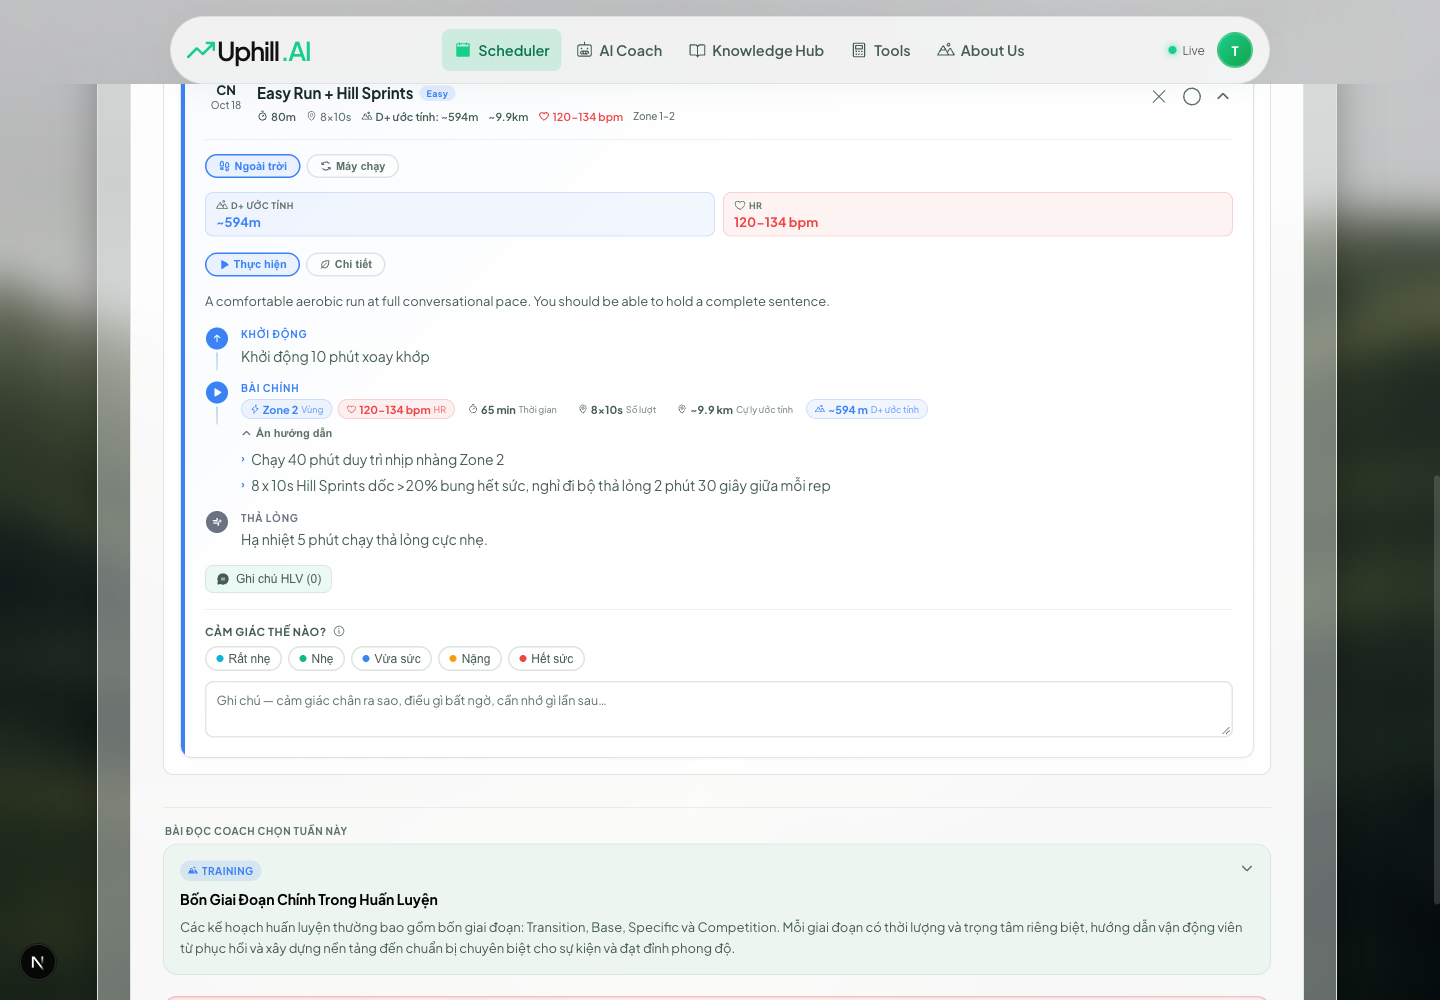
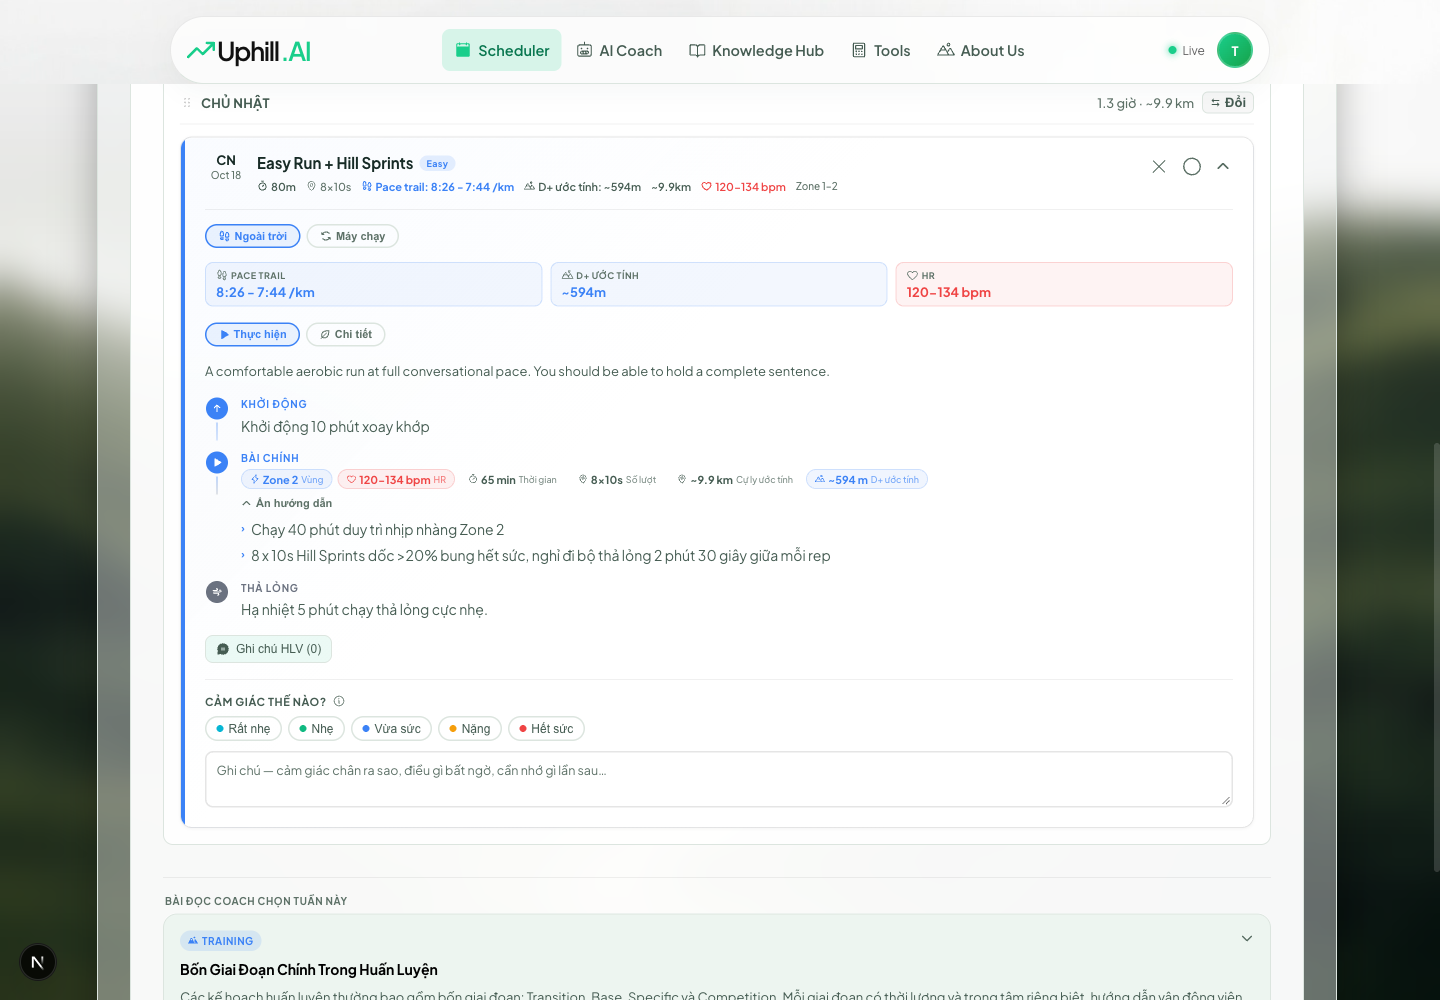
fix: preserve Easy trail pace and reps through coach edits
Task 12 review checkpoint; coach calculation decision and full iOS signing rerun remain pending.

diff --git a/frontend/src/components/WorkoutCard.tsx b/frontend/src/components/WorkoutCard.tsx
@@ -156,7 +156,7 @@ export default function WorkoutCard({
 }: WorkoutCardProps) {
   const labels = translations[lang === "vi" ? "vi" : "en"];
   const isTrail = wo.elevation_gain_m > 0;
-  const hidePace = hideRepPace(wo);
+  const hidePace = hideRepPace(wo) && (wo.target_zone === "Zone 5" || !["Easy", "Long Run"].includes(wo.type));
   const isRest = wo.type === "Rest";
   const isRaceDay = wo.type?.toLowerCase() === "race";
   const isPending = !wo.approved_at;
@@ -212,16 +212,16 @@ export default function WorkoutCard({
   };
 
   const handleEditSave = () => {
-    const isInterval = editFields.type === "Interval";
+    const hasReps = editFields.type === "Interval" || (editFields.type === wo.type && Boolean(formatIntervalSummary(wo)));
     onEditWorkout?.(wo.id, {
       title: editFields.title,
       type: editFields.type,
       duration_minutes: parseFloat(editFields.duration_minutes) || 0,
       target_zone: editFields.target_zone,
       description: editFields.description,
-      interval_reps: isInterval ? parseInt(editFields.interval_reps, 10) || null : null,
-      interval_rep_value: isInterval ? parseFloat(editFields.interval_rep_value) || null : null,
-      interval_rep_unit: isInterval ? editFields.interval_rep_unit : null,
+      interval_reps: hasReps ? parseInt(editFields.interval_reps, 10) || null : null,
+      interval_rep_value: hasReps ? parseFloat(editFields.interval_rep_value) || null : null,
+      interval_rep_unit: hasReps ? editFields.interval_rep_unit : null,
       is_priority: editFields.is_priority,
     });
     setEditing(false);

diff --git a/frontend/src/components/WorkoutCard.test.tsx b/frontend/src/components/WorkoutCard.test.tsx
@@ -208,3 +208,22 @@ describe("trail and sprint metrics", () => {
     expect(screen.getByText(/D\+ ước tính/)).toBeInTheDocument();
   });
 });
+
+describe("Easy hill-sprint editing and aerobic pace", () => {
+  const wo = { id: 112, day_of_week: "Saturday", title: "Easy + Hill Sprints", type: "Easy", target_zone: "Zone 2",
+    duration_minutes: 80, distance_km: 9.9, elevation_gain_m: 594, target_pace: "8:26 - 7:44 /km",
+    interval_reps: 8, interval_rep_value: 10, interval_rep_unit: "s", approved_at: "2026-10-17" };
+  it("keeps the aerobic trail pace separate from the sprint rep chip", () => {
+    render(<WorkoutCard wo={wo} isMobile={false} lang="en" getWorkoutDate={() => ""} readOnly />);
+    expect(screen.getByText("8x10s")).toBeInTheDocument();
+    expect(screen.getByText(`Trail pace: ${wo.target_pace}`)).toBeInTheDocument();
+  });
+  it("preserves Easy-run reps through ordinary coach edits", () => {
+    const onEdit = vi.fn();
+    render(<WorkoutCard wo={wo} isMobile={false} lang="en" getWorkoutDate={() => ""} isCoachActingAsAthlete onEditWorkout={onEdit} />);
+    fireEvent.click(screen.getByTitle("Edit"));
+    fireEvent.click(screen.getByLabelText("Priority"));
+    fireEvent.click(screen.getByText("Save"));
+    expect(onEdit).toHaveBeenCalledWith(112, expect.objectContaining({ interval_reps: 8, interval_rep_value: 10, interval_rep_unit: "s" }));
+  });
+});

diff --git a/ios-native/UphillAITests/Plan/WorkoutPresentationTextTests.swift b/ios-native/UphillAITests/Plan/WorkoutPresentationTextTests.swift
@@ -21,6 +21,17 @@ struct WorkoutPresentationTextTests {
         #expect(WorkoutTypePresentation.zoneShort("Rest") == nil)
     }
 
+    @Test func easyHillSprintsKeepAerobicPaceSeparateFromMaximalReps() {
+        let w = TestData.workout(["type": "Easy", "title": "Easy + Hill Sprints", "target_zone": "Zone 2",
+                                 "target_pace": "8:26 - 7:44 /km", "elevation_gain_m": 594.0,
+                                 "interval_reps": 8, "interval_rep_value": 10.0, "interval_rep_unit": "s"])
+        #expect(WorkoutTypePresentation.sessionPaceValue(for: w) == "8:26–7:44")
+        let steps = WorkoutStepParser.parseSteps(workout: w, description: WorkoutStepParser.parseDescription(w.description), isTreadmill: false)
+        #expect(steps[1].target == "8 × 10 s")
+        let sprint = TestData.workout(["type": "Interval", "title": "Hill Sprints", "target_zone": "Zone 5", "target_pace": "4:00 /km"])
+        #expect(WorkoutTypePresentation.sessionPaceValue(for: sprint) == "—")
+    }
+
     @Test func paceTileDropsUnitAndTightensRange() {
         #expect(WorkoutTypePresentation.paceTileValue("6:24 - 5:42 /km") == "6:24–5:42")
         #expect(WorkoutTypePresentation.paceTileValue("5:30 /km") == "5:30")

diff --git a/ios-native/UphillAI/Core/Plan/WorkoutPresentation.swift b/ios-native/UphillAI/Core/Plan/WorkoutPresentation.swift
@@ -79,6 +79,12 @@ enum WorkoutTypePresentation {
         return value
     }
 
+    static func sessionPaceValue(for workout: Workout) -> String {
+        let aerobic = ["Easy", "Long Run"].contains(workout.type) && zoneShort(workout.targetZone) != "Z5"
+        if workout.isStrengthOrME || (WorkoutStepParser.hidesRepPace(workout) && !aerobic) { return "—" }
+        return paceTileValue(workout.targetPace)
+    }
+
     /// Compact pace for the stat tile, whose label already says "(/KM)":
     /// "6:24 - 5:42 /km" -> "6:24–5:42", "5:30 /km" -> "5:30".
     static func paceTileValue(_ pace: String?) -> String {

diff --git a/ios-native/UphillAI/Features/Plan/WorkoutDetailSheet.swift b/ios-native/UphillAI/Features/Plan/WorkoutDetailSheet.swift
@@ -315,10 +315,7 @@ struct WorkoutDetailSheet: View {
             return w.distanceKm.flatMap { $0 > 0 ? String(format: "%.1f km", $0) : nil } ?? "—"
         }()
 
-        let paceValue: String = {
-            if w.isStrengthOrME || WorkoutStepParser.hidesRepPace(w) { return "—" }
-            return WorkoutTypePresentation.paceTileValue(w.targetPace)
-        }()
+        let paceValue = WorkoutTypePresentation.sessionPaceValue(for: w)
 
         return HStack(spacing: UH.Space.small) {
             statTile(
